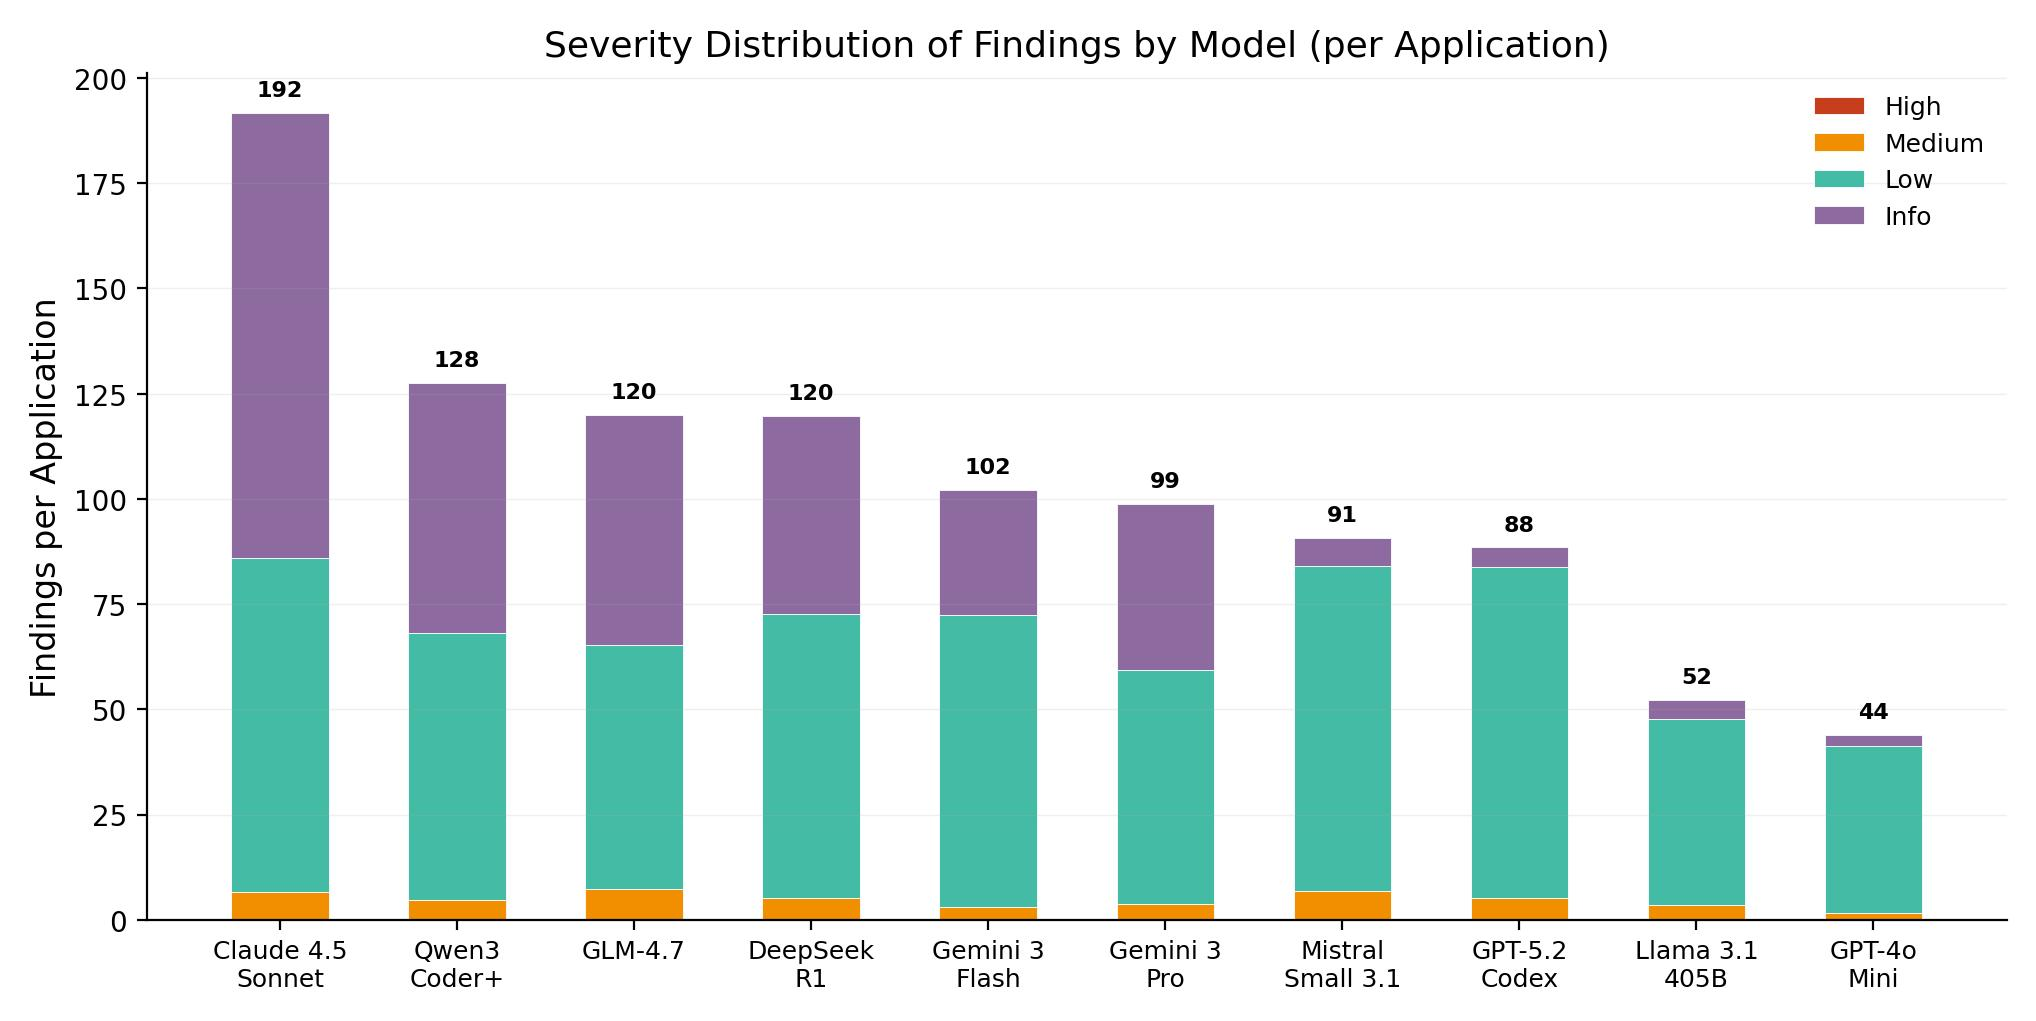
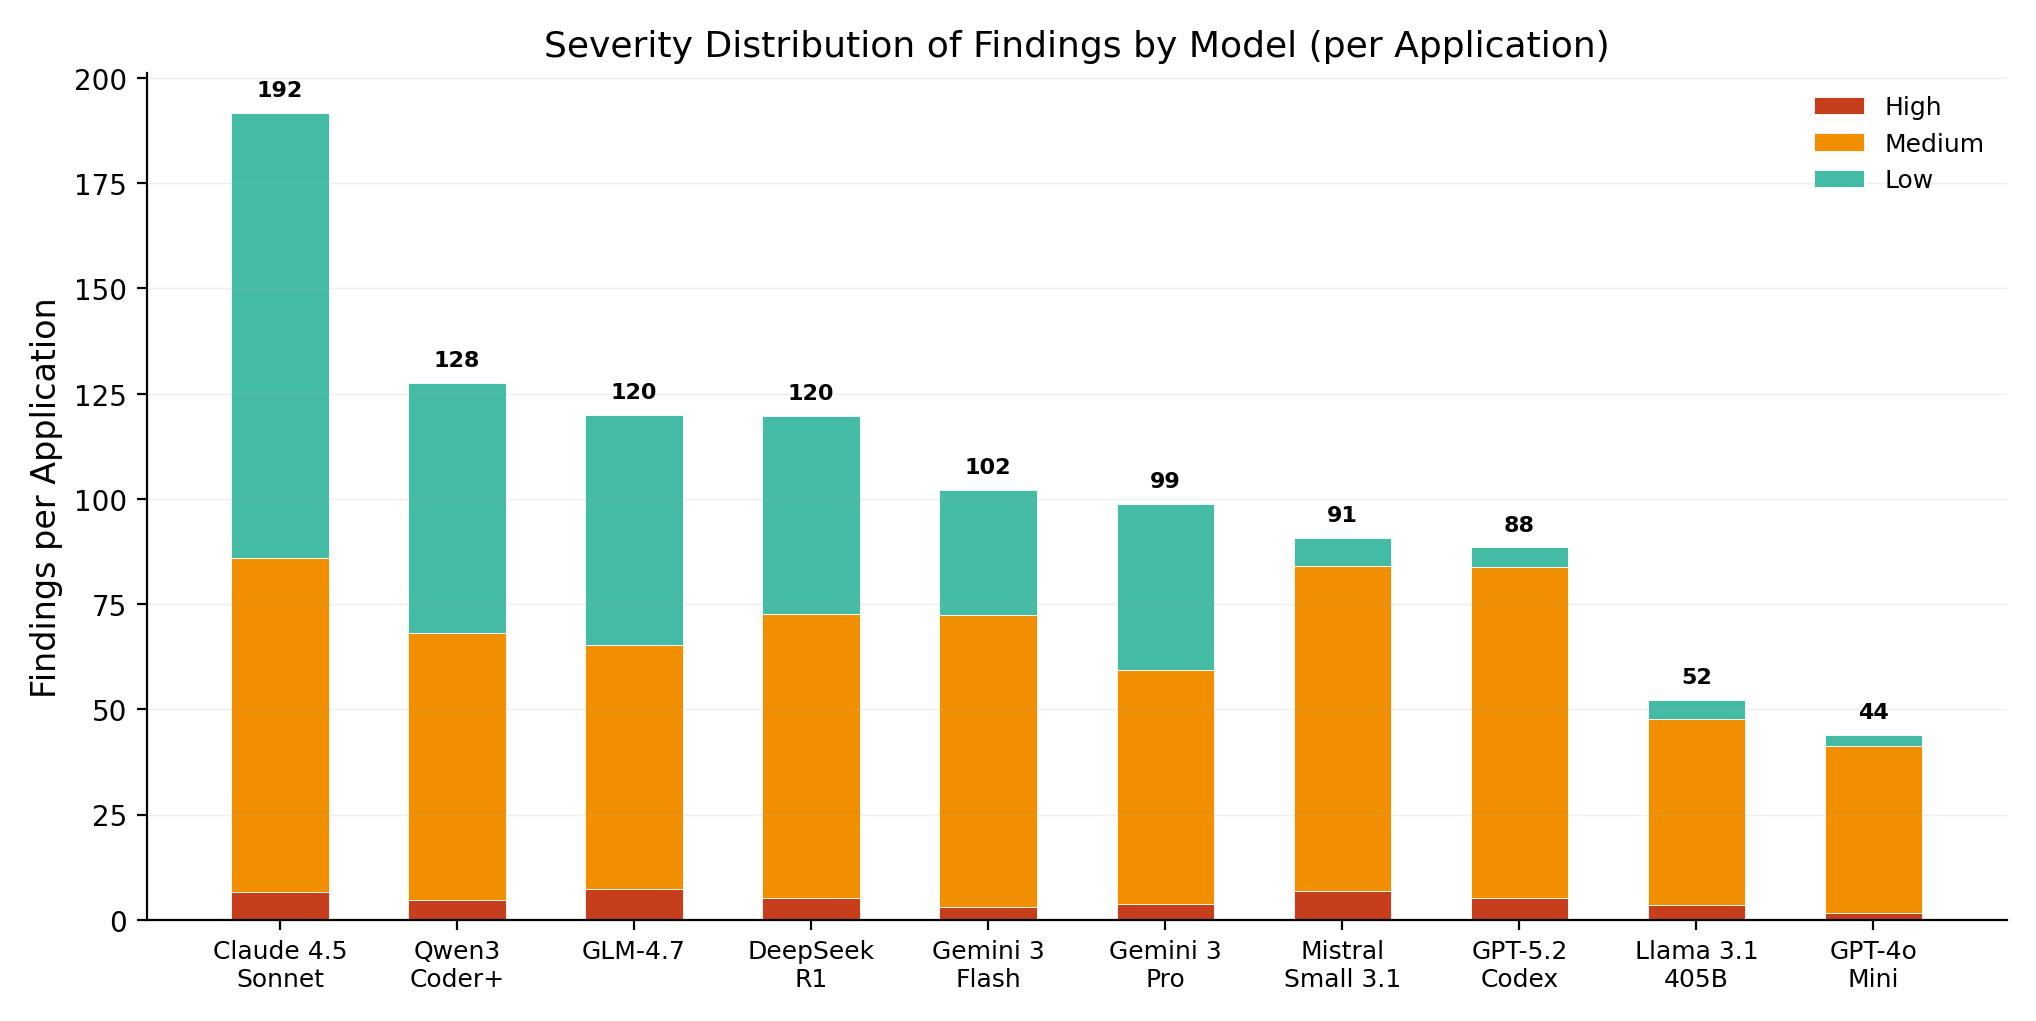
Fix severity plot: correct H/M/L column mapping, remove Info class

diff --git a/scripts/generate_chapter7_plots.py b/scripts/generate_chapter7_plots.py
@@ -74,25 +74,20 @@ DEFECT_DENSITY = {
 }
 
 # Severity totals (from Findings by Severity table)
+# Columns: Crit (all 0), High, Med, Low
 SEVERITY_HIGH = {
-    'Llama 3.1 405B': 0, 'GPT-4o Mini': 0, 'Mistral Small 3.1': 0,
-    'Claude 4.5 Sonnet': 0, 'GLM-4.7': 0, 'Gemini 3 Pro': 0,
-    'Qwen3 Coder+': 0, 'Gemini 3 Flash': 0, 'DeepSeek R1': 0,
-    'GPT-5.2 Codex': 0,
-}
-SEVERITY_MED = {
     'Llama 3.1 405B': 69, 'GPT-4o Mini': 32, 'Mistral Small 3.1': 139,
     'Claude 4.5 Sonnet': 133, 'GLM-4.7': 148, 'Gemini 3 Pro': 74,
     'Qwen3 Coder+': 95, 'Gemini 3 Flash': 62, 'DeepSeek R1': 103,
     'GPT-5.2 Codex': 105,
 }
-SEVERITY_LOW = {
+SEVERITY_MED = {
     'Llama 3.1 405B': 887, 'GPT-4o Mini': 792, 'Mistral Small 3.1': 1543,
     'Claude 4.5 Sonnet': 1584, 'GLM-4.7': 1159, 'Gemini 3 Pro': 1114,
     'Qwen3 Coder+': 1266, 'Gemini 3 Flash': 1387, 'DeepSeek R1': 1350,
     'GPT-5.2 Codex': 1570,
 }
-SEVERITY_INFO = {
+SEVERITY_LOW = {
     'Llama 3.1 405B': 90, 'GPT-4o Mini': 55, 'Mistral Small 3.1': 131,
     'Claude 4.5 Sonnet': 2116, 'GLM-4.7': 1092, 'Gemini 3 Pro': 787,
     'Qwen3 Coder+': 1189, 'Gemini 3 Flash': 593, 'DeepSeek R1': 943,
@@ -348,7 +343,7 @@ def plot_static_heatmap() -> None:
 # ── Plot 4: Severity Distribution Stacked Bars ───────────────────────────────
 def plot_severity_distribution() -> None:
     """Stacked bar chart: High/Medium/Low findings per model (per app)."""
-    total_findings = {m: SEVERITY_HIGH[m] + SEVERITY_MED[m] + SEVERITY_LOW[m] + SEVERITY_INFO[m]
+    total_findings = {m: SEVERITY_HIGH[m] + SEVERITY_MED[m] + SEVERITY_LOW[m]
                       for m in MODELS}
     models = sorted(MODELS, key=lambda m: total_findings[m], reverse=True)
     labels = _labels(models)
@@ -357,7 +352,6 @@ def plot_severity_distribution() -> None:
     highs_pa = [SEVERITY_HIGH[m] / n_apps for m in models]
     meds_pa = [SEVERITY_MED[m] / n_apps for m in models]
     lows_pa = [SEVERITY_LOW[m] / n_apps for m in models]
-    info_pa = [SEVERITY_INFO[m] / n_apps for m in models]
 
     fig, ax = plt.subplots(figsize=(12, 5.5))
     x = np.arange(len(models))
@@ -367,10 +361,8 @@ def plot_severity_distribution() -> None:
     ax.bar(x, meds_pa, w, bottom=highs_pa, label='Medium', color='#F18F01', edgecolor='white', linewidth=0.3)
     b2 = [h + m for h, m in zip(highs_pa, meds_pa)]
     ax.bar(x, lows_pa, w, bottom=b2, label='Low', color='#44BBA4', edgecolor='white', linewidth=0.3)
-    b3 = [b + l for b, l in zip(b2, lows_pa)]
-    ax.bar(x, info_pa, w, bottom=b3, label='Info', color='#8D6A9F', edgecolor='white', linewidth=0.3)
 
-    totals = [h + m + l + i for h, m, l, i in zip(highs_pa, meds_pa, lows_pa, info_pa)]
+    totals = [h + m + l for h, m, l in zip(highs_pa, meds_pa, lows_pa)]
     for xi, t in zip(x, totals):
         ax.text(xi, t + 3, f'{t:.0f}', ha='center', va='bottom', fontsize=8, fontweight='bold')
 
